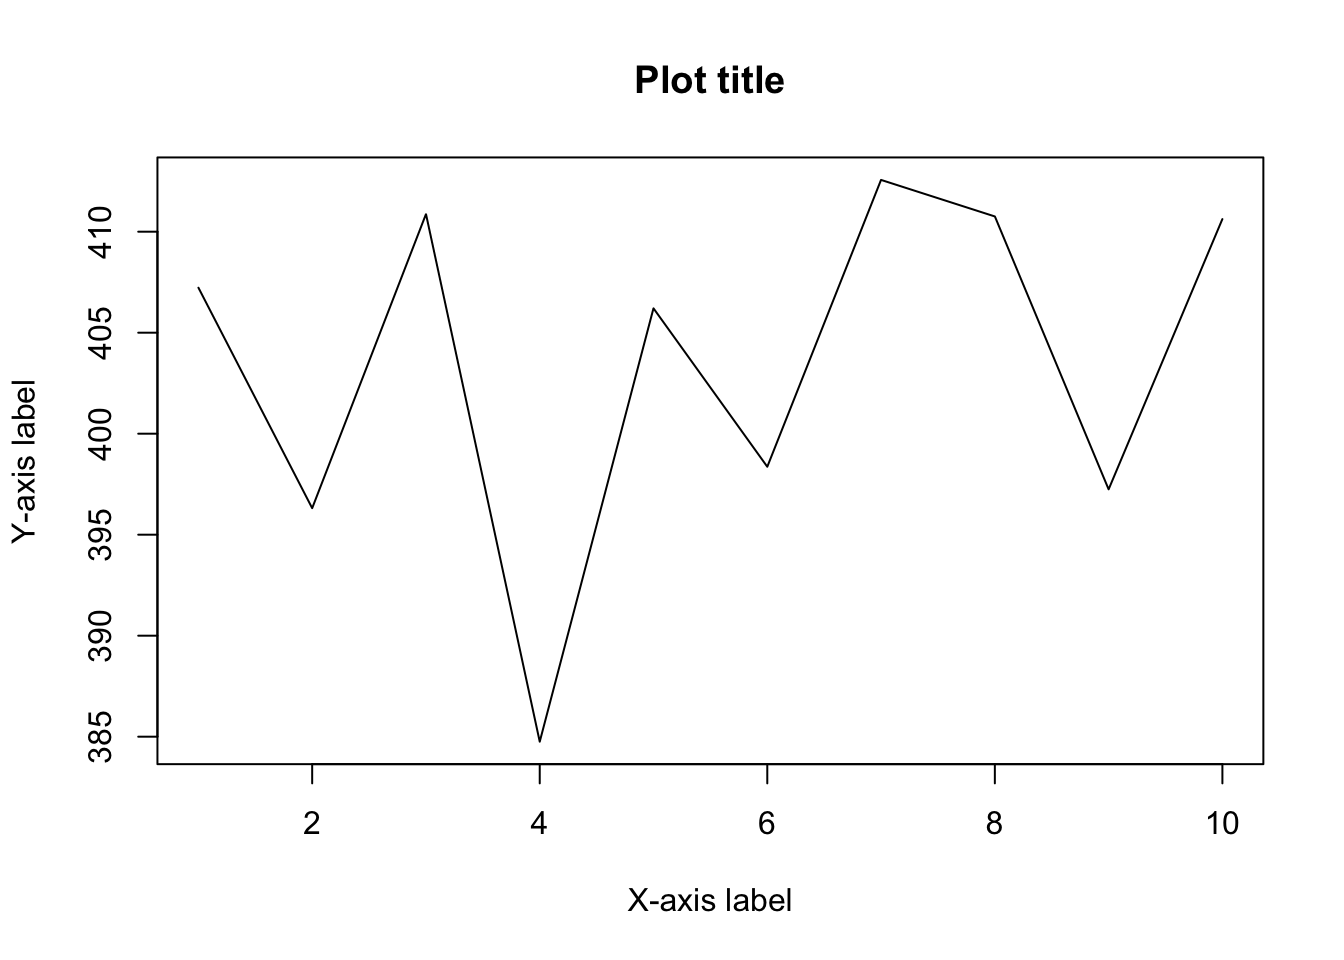
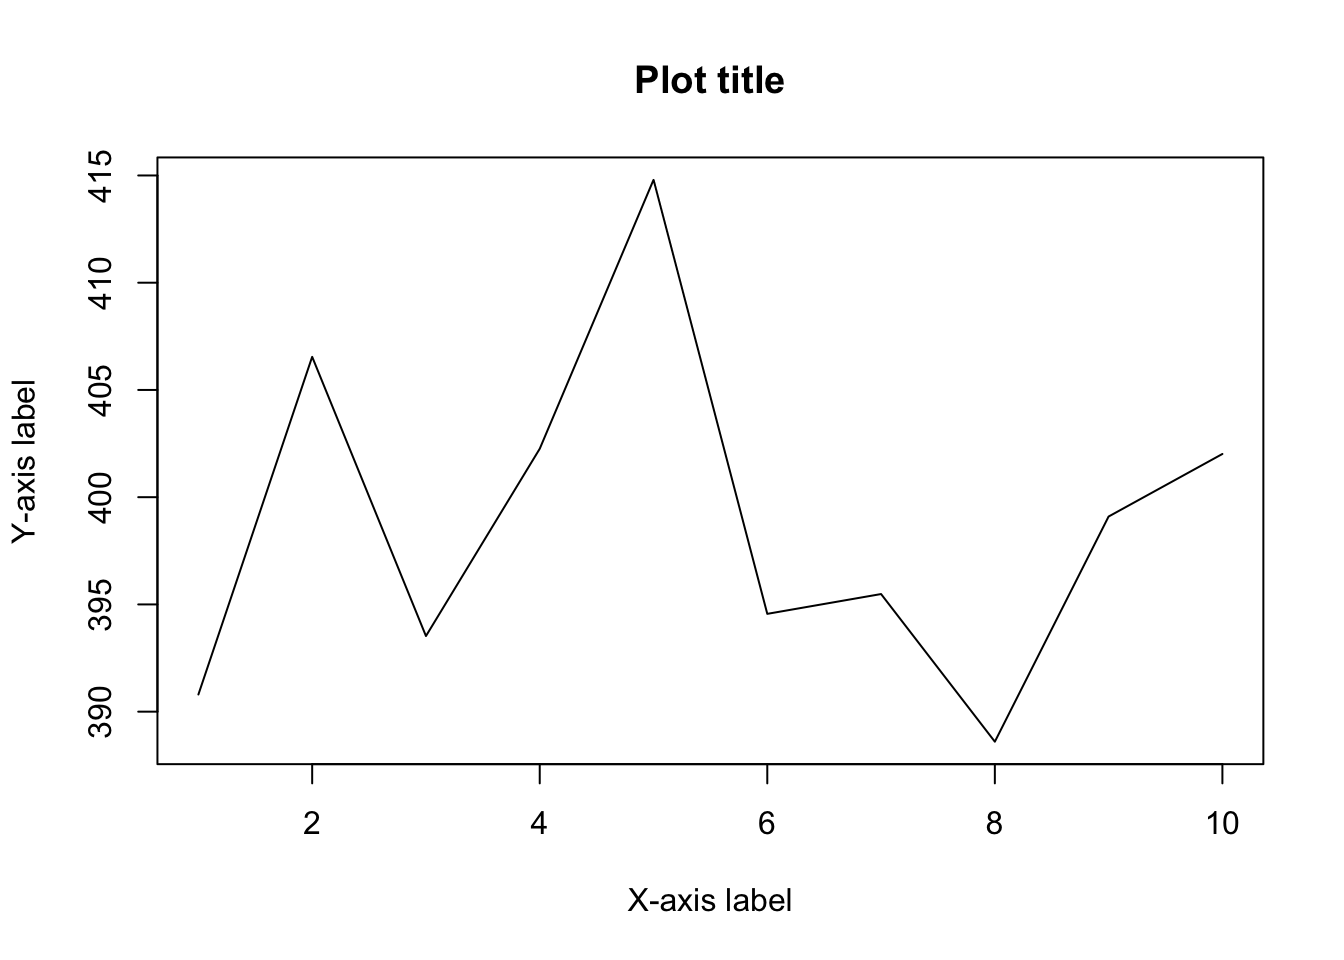
edit post

diff --git a/content/blog/how-to-install-r-and-rstudio.html b/content/blog/how-to-install-r-and-rstudio.html
@@ -191,10 +191,10 @@ my_mat2</code></pre>
 <pre class="r"><code>my_vec &lt;- rnorm(10, mean = 400, sd = 10)
 # Display only the first 5 values:
 head(my_vec, 5)</code></pre>
-<pre><code>## [1] 407.2270 396.3127 410.8629 384.7525 406.2052</code></pre>
+<pre><code>## [1] 390.8006 406.5431 393.5258 402.2572 414.7928</code></pre>
 <pre class="r"><code># Display only the last 5 values:
 tail(my_vec, 5)</code></pre>
-<pre><code>## [1] 398.3636 412.5637 410.7548 397.2449 410.6236</code></pre>
+<pre><code>## [1] 394.5605 395.4842 388.6000 399.0982 402.0150</code></pre>
 <p>You will have different values than mines due to the fact that they are randomly generated. If you want to make sure to have always the same random values, use <code>set.seed()</code> (with any numeric inside the brackets). For instance, with the following code, you should have the exact same values, no matter where and when you run it:</p>
 <pre class="r"><code>set.seed(42)
 rnorm(3, mean = 10, sd = 2)</code></pre>
@@ -208,7 +208,7 @@ rnorm(3, mean = 10, sd = 2)</code></pre>
   ylab = &quot;Y-axis label&quot;,
   xlab = &quot;X-axis label&quot;
 )</code></pre>
-<p><img src="/blog/how-to-install-r-and-rstudio_files/figure-html/unnamed-chunk-12-1.png" width="672" /></p>
+<p><img src="/blog/how-to-install-r-and-rstudio_files/figure-html/unnamed-chunk-12-1.png" width="100%" style="display: block; margin: auto;" /></p>
 <p>This is only a very limited introduction to the possibilities of RStudio. If you want to learn more, I recommend that you read other <a href="/tags/R/">articles related to R</a>, starting with <a href="/blog/how-to-import-an-excel-file-in-rstudio/">how to import an Excel file</a> or <a href="/blog/data-manipulation-in-r/">how to manipulate a dataset</a>.</p>
 <p>Thanks for reading. I hope this article helped you to install R and RStudio.</p>
 <p>As always, if you have a question or a suggestion related to the topic covered in this article, please add it as a comment so other readers can benefit from the discussion. If you find a mistake or bug, you can inform me by <a href="https://github.com/AntoineSoetewey/statsandr/issues" target="_blank" rel="noopener">raising an issue on GitHub</a>. For all other requests, you can contact me <a href="/contact/">here</a>.</p>

diff --git a/public/blog/how-to-install-r-and-rstudio/index.html b/public/blog/how-to-install-r-and-rstudio/index.html
@@ -330,10 +330,10 @@ my_mat2</code></pre>
 <pre class="r"><code>my_vec &lt;- rnorm(10, mean = 400, sd = 10)
 # Display only the first 5 values:
 head(my_vec, 5)</code></pre>
-<pre><code>## [1] 407.2270 396.3127 410.8629 384.7525 406.2052</code></pre>
+<pre><code>## [1] 390.8006 406.5431 393.5258 402.2572 414.7928</code></pre>
 <pre class="r"><code># Display only the last 5 values:
 tail(my_vec, 5)</code></pre>
-<pre><code>## [1] 398.3636 412.5637 410.7548 397.2449 410.6236</code></pre>
+<pre><code>## [1] 394.5605 395.4842 388.6000 399.0982 402.0150</code></pre>
 <p>You will have different values than mines due to the fact that they are randomly generated. If you want to make sure to have always the same random values, use <code>set.seed()</code> (with any numeric inside the brackets). For instance, with the following code, you should have the exact same values, no matter where and when you run it:</p>
 <pre class="r"><code>set.seed(42)
 rnorm(3, mean = 10, sd = 2)</code></pre>
@@ -347,7 +347,7 @@ rnorm(3, mean = 10, sd = 2)</code></pre>
   ylab = &quot;Y-axis label&quot;,
   xlab = &quot;X-axis label&quot;
 )</code></pre>
-<p><img src="/blog/how-to-install-r-and-rstudio_files/figure-html/unnamed-chunk-12-1.png" width="672" /></p>
+<p><img src="/blog/how-to-install-r-and-rstudio_files/figure-html/unnamed-chunk-12-1.png" width="100%" style="display: block; margin: auto;" /></p>
 <p>This is only a very limited introduction to the possibilities of RStudio. If you want to learn more, I recommend that you read other <a href="/tags/R/">articles related to R</a>, starting with <a href="/blog/how-to-import-an-excel-file-in-rstudio/">how to import an Excel file</a> or <a href="/blog/data-manipulation-in-r/">how to manipulate a dataset</a>.</p>
 <p>Thanks for reading. I hope this article helped you to install R and RStudio.</p>
 <p>As always, if you have a question or a suggestion related to the topic covered in this article, please add it as a comment so other readers can benefit from the discussion. If you find a mistake or bug, you can inform me by <a href="https://github.com/AntoineSoetewey/statsandr/issues" target="_blank" rel="noopener">raising an issue on GitHub</a>. For all other requests, you can contact me <a href="/contact/">here</a>.</p>
